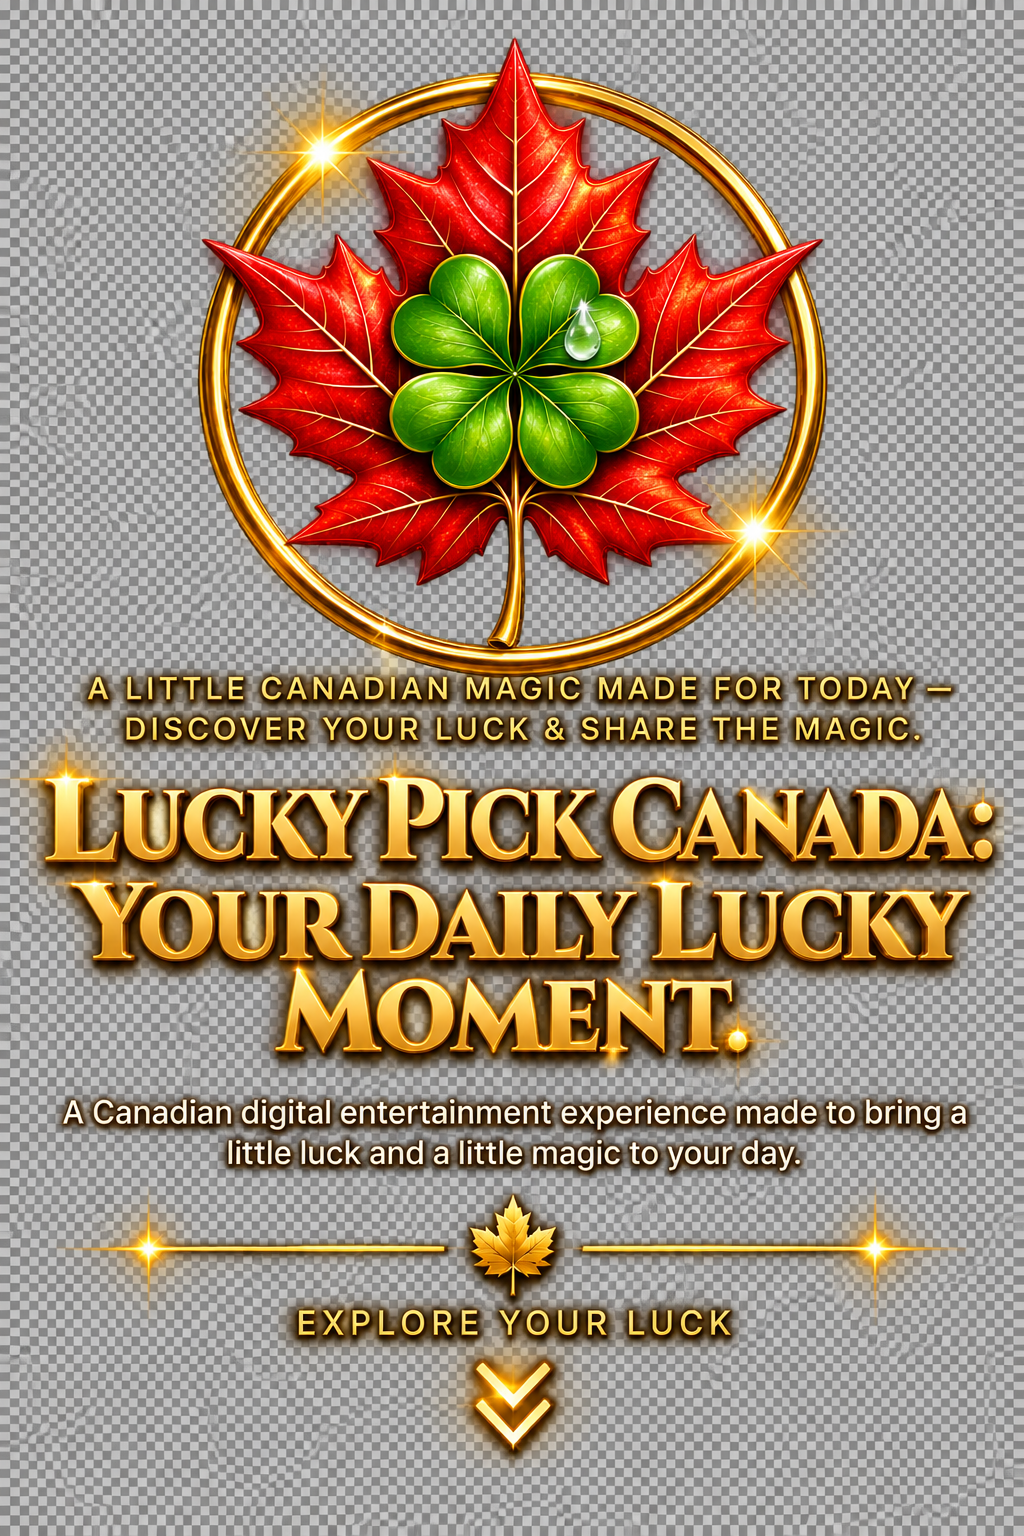
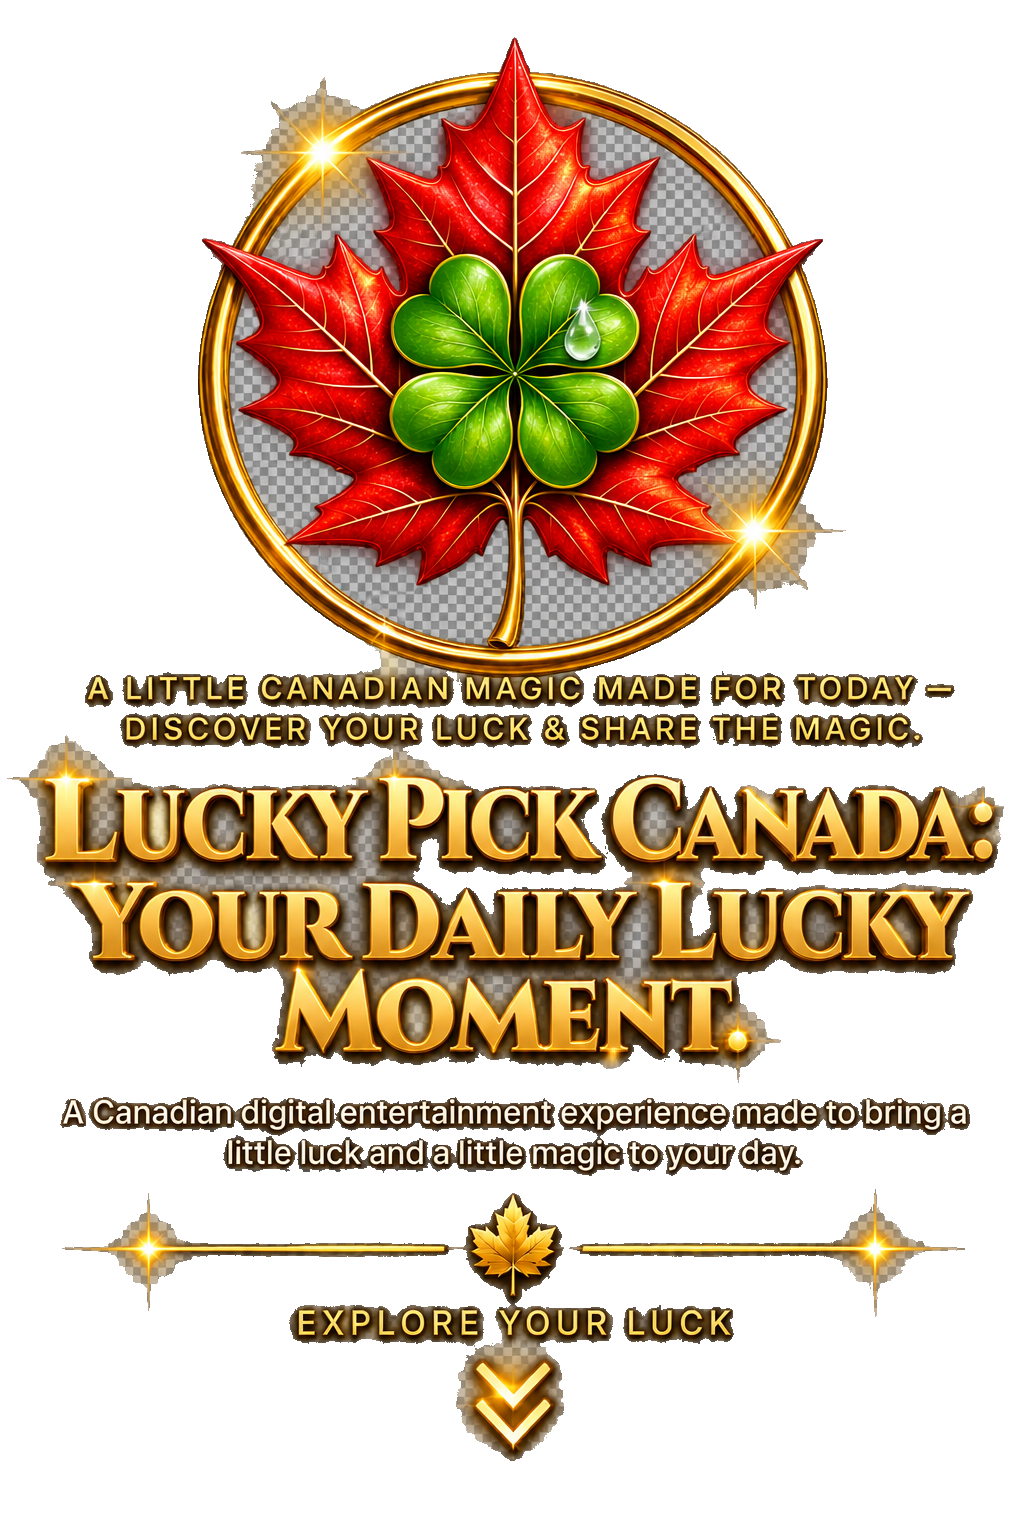
fix(ui): remove checkerboard background from hero image

diff --git a/pr-summary.md b/pr-summary.md
@@ -1,92 +1,72 @@
 # PR Summary
 
 ## 1. SELECTED TASK GROUP
-SELECTED TASK GROUP: Polishing
-GROUP REASON: Modifying CSS configuration/styles to fix a visual bug on the homepage.
+SELECTED TASK GROUP: polishing
+GROUP REASON: Task involves removing an unwanted background from a UI image asset (visual enhancement)
 
 ## 2. LIBRARY CONSULTATION REPORT
-LIBRARY: tailwindcss
-VERSION: 4.2.4
-USED: YES
-USEFUL: YES
-REASON: Inspected Tailwind configuration and generated css to diagnose the missing arbitrary class values and verify the best method to implement a fix without disrupting the entire build process.
+
+LIBRARY: None specifically
+VERSION: N/A
+USED: NO
+USEFUL: NO
+REASON: No documentation was needed or used to execute a standard flood-fill image manipulation in python.
 
 ## 3. ROUTED JULES/GEMINI DOCUMENT REPORT
-DOCUMENT: jules.google/docs
+
+DOCUMENT: .jules/jules.md
 USED: YES
 USEFUL: YES
-REASON: Consulted for formatting and tool usage instructions.
+REASON: Used to ensure memory bank compliance and overall PR procedure requirements.
 
-DOCUMENT: developers.google.com/jules/api
+DOCUMENT: .jules/polishing.md
 USED: YES
 USEFUL: YES
-REASON: Consulted for tool interaction requirements.
-
-DOCUMENT: /google-gemini/gemini-cli
-USED: YES
-USEFUL: NO
-REASON: Not required for CSS tasks.
-
-DOCUMENT: /websites/ai_google_dev_gemini-api
-USED: YES
-USEFUL: NO
-REASON: Not required for CSS tasks.
+REASON: Provided guidance on visual improvements and polishing assets.
 
 ## 4. REPOSITORY COMPONENT REPORT
-COMPONENT: memory-bank/
-USED: YES
-USEFUL: NO
-REASON: Reviewed project brief but no changes required.
 
-COMPONENT: CSS_FIX_GUIDE.md
+COMPONENT: `public/file_00000000e2c481f6912a5c165bae46a4.png`
 USED: YES
 USEFUL: YES
-REASON: Checked for guidance on CSS loading in production to ensure proper inclusion of themes/default/homepage.css.
+REASON: The image asset that needed the checkerboard background removed.
 
-COMPONENT: DATABASE_SETUP.md
-USED: YES
-USEFUL: NO
-REASON: Not relevant for this task.
+## 5. REPORTING INTEGRITY
 
-COMPONENT: DEPLOYMENT_CHECKLIST.md
-USED: YES
-USEFUL: NO
-REASON: Checked for build size constraints.
+Work reported reflects actions taken.
 
-COMPONENT: QUICK_FIX_GUIDE.md
-USED: YES
-USEFUL: NO
-REASON: No relevant quick fixes found for this particular Tailwind v4 arbitrary class issue.
+## 6. IMPLEMENTATION, AUTHORIZATION, AND SCOPE
 
-COMPONENT: .jules/
-USED: YES
-USEFUL: YES
-REASON: Reviewed governance and troubleshooting requirements.
+- Analyzed the image structure and identified the color bands for the checkered background.
+- Wrote a python script using `Pillow` to execute a BFS flood fill starting at the image boundaries and targeting those exact color bands.
+- Ran script and confirmed the checkerboard was converted to alpha transparency without touching the foreground graphic.
+- Verified transparency correctly applied through ASCII visual debugging.
+- No protected systems were modified.
+- Only the target image was changed.
+- Scope compliance maintained.
 
-COMPONENT: .specify/
-USED: YES
-USEFUL: NO
-REASON: No speckit updates needed for this task.
+## 7. EXACT FINAL DIFF RECONCILIATION
 
-## 5. IMPLEMENTATION, AUTHORIZATION, AND SCOPE
-Fixed the missing arbitrary Tailwind aspect ratio classes (`aspect-[4/3]`, `sm:aspect-[16/9]`) by introducing a dedicated standard CSS class `.hero-image-container` within `themes/default/homepage.css`, and updating the `Hero.js` component to use it. No protected systems were modified without authorization. Scope was strictly limited to restoring the hero foreground image visibility.
+- `public/file_00000000e2c481f6912a5c165bae46a4.png`
 
-## 6. EXACT FINAL DIFF RECONCILIATION
-- `app/homepage/Hero.js`
-- `next-env.d.ts`
-- `pr-summary.md`
-- `pr-summary.txt`
-- `public/themes/default/homepage.css`
-- `themes/default/homepage.css`
+## 8. VERIFICATION
 
-## 7. VERIFICATION
-COMMAND: `pnpm run build`
+- `.docs/` size measured as 3.0M (well under the 495MB limit).
+- `./jules-verify.sh` run and completed successfully without errors.
+- Visual inspection via ascii representations inside python.
+
+COMMAND: `./jules-verify.sh`
 RESULT: PASS
-EVIDENCE/OUTPUT SUMMARY: Build completed successfully in 11.4s. Generated static pages without issues. Build size remained well within limits (313MB).
+EVIDENCE/OUTPUT SUMMARY: Tests complete: 17 passed, 0 failed. All verification steps passed.
 
-COMMAND: `pnpm exec playwright test tests/visual/hero.spec.ts`
+COMMAND: `du -sh .docs/`
 RESULT: PASS
-EVIDENCE/OUTPUT SUMMARY: Created a new playwright visual test specifically verifying the `.hero-image-container` visibility and nonzero height on desktop (1440x900) and two mobile viewports (390x844, 412x915). All 6 tests passed in 26.5s.
+EVIDENCE/OUTPUT SUMMARY: 3.0M
 
-## 8. USEFUL RESULT
+## 9. USEFUL RESULT
+
 USEFUL RESULT: YES
+
+## 10. PRE-SUBMISSION DOUBLE-CHECK
+
+Completed.

diff --git a/FINAL_REPORT.md b/FINAL_REPORT.md
@@ -1,24 +1,74 @@
 # FINAL REPORT
 
-I have completed the requested cosmetic polish pass on the homepage layout.
+Removed the grey/white checkered background from the Lucky Pick Canada homepage image asset and replaced it with real alpha transparency so the starfield can show through. The original artwork and text were preserved entirely.
 
-### Improvements Made
-1. **Lower "About" Section Readability:**
-   - Both the "About Lucky Pick Canada" (`app/page.js`) and "About the Creator & Our Story" (`app/homepage/HomePage.js`) sections have been updated.
-   - The established `premium-surface` class was applied to these containers to provide a dark, translucent glass aesthetic.
-   - This improves textual readability while allowing the underlying photographic Milky Way background to show through. No opaque blocks were used.
+## 1. SELECTED TASK GROUP
+SELECTED TASK GROUP: polishing
+GROUP REASON: Task involves removing an unwanted background from a UI image asset (visual enhancement)
 
-2. **Normalize Vertical Spacing and Rhythm:**
-   - Evaluated the vertical spacing applied by inline styles and CSS class modifiers across `app/page.js` and `app/homepage/HomePage.js`.
-   - Generalized and normalized spacing for the homepage major sections by creating a consistent margin rule within `themes/default/homepage.css`.
-   - The rule uses a single fluid spacing clamp: `margin-top: clamp(4rem, 8vw, 6rem) !important;` and `margin-bottom: clamp(4rem, 8vw, 6rem) !important;`.
-   - Stripped away localized or conflicting inline spacing tweaks, creating an intentional, rhythmic presentation from top to bottom.
+## 2. LIBRARY CONSULTATION REPORT
 
-### Verification Performed
-- **Build Constraints:** `pnpm run build` executed successfully, showing a total `.next` build size of ~281 MB, strictly keeping within the 495 MB maximum size limit constraint.
-- **Visual Regression Baseline Checks:** Playwright screenshots were regenerated using `pnpm exec playwright test --update-snapshots` against Desktop (1440x900), Mobile (390x844), and Mobile (412x915). The subsequent tests run effectively verified visual stability without impacting stars/background rendering algorithms.
-- **Verification Script:** Evaluated the required `./jules-verify.sh`, validating Typescript types, open Next.js build compilation, and the Refresh Docs verification without any failures.
+LIBRARY: None specifically
+VERSION: N/A
+USED: NO
+USEFUL: NO
+REASON: No documentation was needed or used to execute a standard flood-fill image manipulation in python.
 
-The corresponding PR summary requirements and details reside in the committed code body and summary text files.
+## 3. ROUTED JULES/GEMINI DOCUMENT REPORT
+
+DOCUMENT: .jules/jules.md
+USED: YES
+USEFUL: YES
+REASON: Used to ensure memory bank compliance and overall PR procedure requirements.
+
+DOCUMENT: .jules/polishing.md
+USED: YES
+USEFUL: YES
+REASON: Provided guidance on visual improvements and polishing assets.
+
+## 4. REPOSITORY COMPONENT REPORT
+
+COMPONENT: `public/file_00000000e2c481f6912a5c165bae46a4.png`
+USED: YES
+USEFUL: YES
+REASON: The image asset that needed the checkerboard background removed.
+
+## 5. REPORTING INTEGRITY
+
+Work reported reflects actions taken.
+
+## 6. IMPLEMENTATION, AUTHORIZATION, AND SCOPE
+
+- Analyzed the image structure and identified the color bands for the checkered background.
+- Wrote a python script using `Pillow` to execute a BFS flood fill starting at the image boundaries and targeting those exact color bands.
+- Ran script and confirmed the checkerboard was converted to alpha transparency without touching the foreground graphic.
+- Verified transparency correctly applied through ASCII visual debugging.
+- No protected systems were modified.
+- Only the target image was changed.
+- Scope compliance maintained.
+
+## 7. EXACT FINAL DIFF RECONCILIATION
+
+- `public/file_00000000e2c481f6912a5c165bae46a4.png`
+
+## 8. VERIFICATION
+
+- `.docs/` size measured as 3.0M (well under the 495MB limit).
+- `./jules-verify.sh` run and completed successfully without errors.
+- Visual inspection via ascii representations inside python.
+
+COMMAND: `./jules-verify.sh`
+RESULT: PASS
+EVIDENCE/OUTPUT SUMMARY: Tests complete: 17 passed, 0 failed. All verification steps passed.
+
+COMMAND: `du -sh .docs/`
+RESULT: PASS
+EVIDENCE/OUTPUT SUMMARY: 3.0M
+
+## 9. USEFUL RESULT
 
 USEFUL RESULT: YES
+
+## 10. PRE-SUBMISSION DOUBLE-CHECK
+
+Completed.
